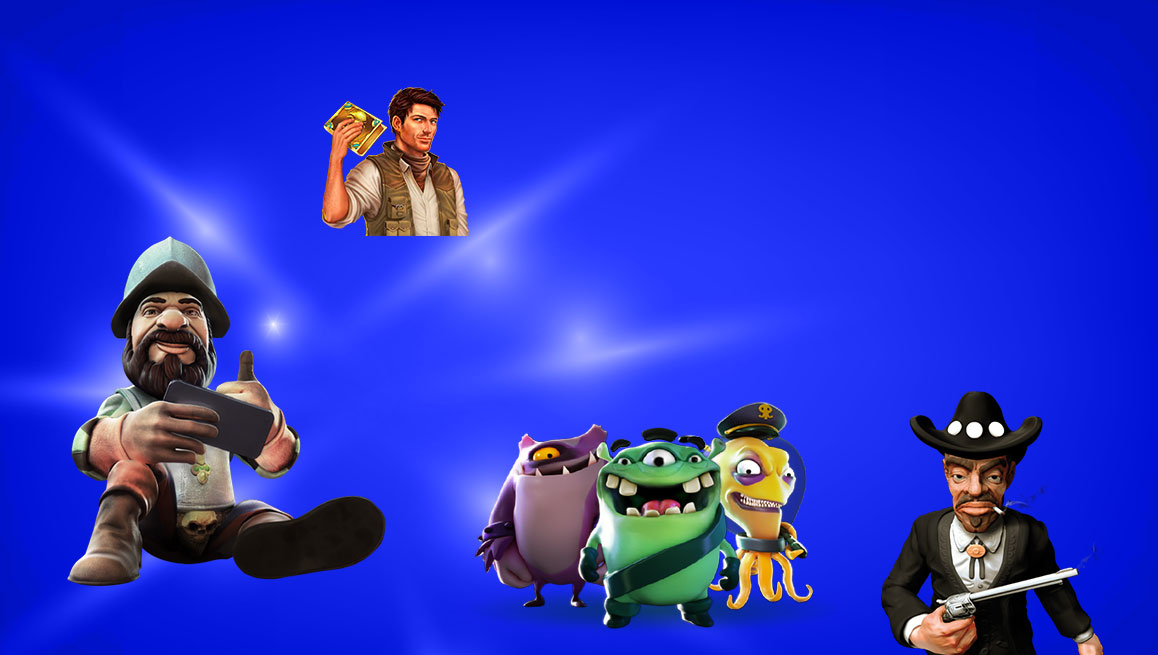
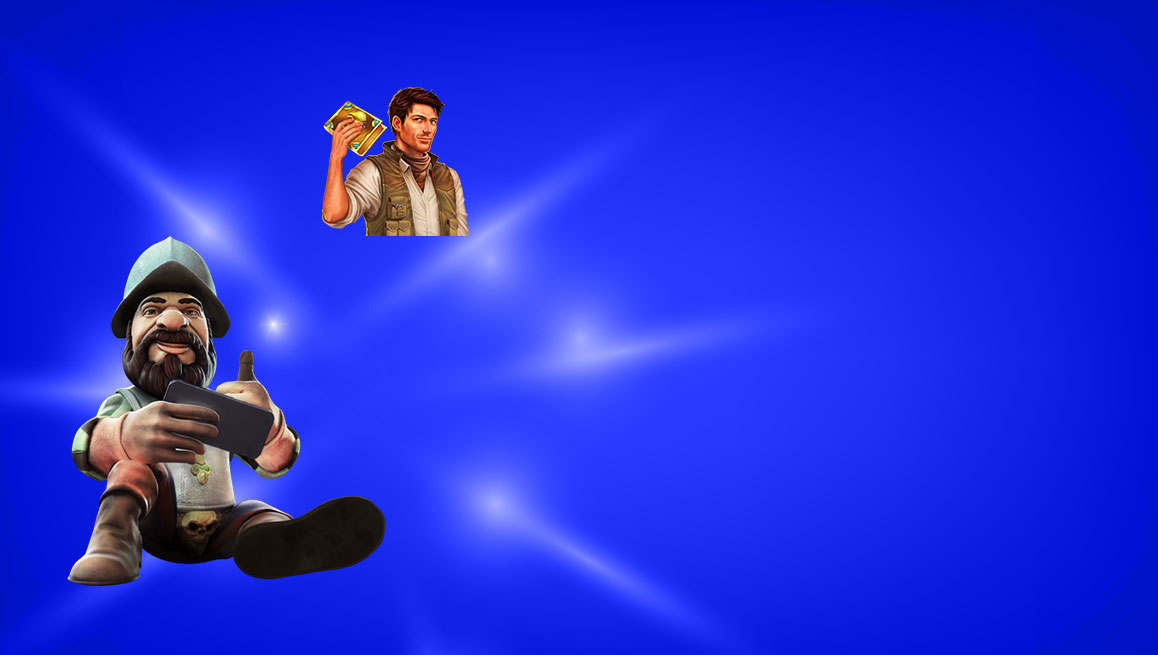
hmm

Changed region(s): [[0.4041, 0.6107, 0.715, 0.9771], [0.7461, 0.5802, 0.9637, 1.0]]

diff --git a/css/main.css b/css/main.css
@@ -93,15 +93,13 @@ img {
     height: 657px;
     background: url('../img/bg-desktop.jpg') no-repeat center center;
     background-size: cover;
-/*    -webkit-background-size: 100% 100%;
-    background-size: 100% 100%;*/
     background-color: #ccc;
     color: #fff;
     position: relative;
 }
 
 .main:before{
-	position: absolute;
+		position: absolute;
     content: " ";
     top: 75px;
     left: 0;
@@ -111,6 +109,26 @@ img {
     z-index: 1;
     background: url(../img/coins-desktop.png) no-repeat;
     background-size: 100% 100%;
+}
+.left__container:before{
+		position: absolute;
+		content: " ";
+		width: 34%;
+		height: 63%;
+		background: url(../img/Guys-desktop.png) no-repeat;
+		z-index: 0;
+    top: 60%;
+    left: 38%;
+}
+.right__container:before{
+		position: absolute;
+		content: " ";
+		width: 20%;
+		height: 68%;
+		background: url(../img/cowboy-desktop.png) no-repeat;
+		z-index: 0;
+    top: 59.5%;
+    left: 75%;
 }
 
 .main h1, .main h2, .main h3 {
@@ -160,6 +178,7 @@ img {
     flex-direction: row;
     padding: 0 70px;
     margin-top: 75px;
+    position: relative;
 }
 
 .main__inner > div {
@@ -168,11 +187,6 @@ img {
     align-items: center;
     flex-direction: column;
 }
-
-/*.main .left__container {
-    margin-left: 13%;
-    margin-right: 2%;
-}*/
 
 .left__container .guy-mobile{
 	display: none;
@@ -250,12 +264,11 @@ img {
     		content: " ";
     		top: 77%;
     		left: 53%;
-    		width: 30%;
+    		width: 42%;
     		height: 21%;
     		display: block;
     		z-index: 1;
     		background: url(../img/guys-tablet.png) no-repeat;
-    		background-size: 100% 100%;
     }
     .main h1{
         margin: 5px 0 20px;
@@ -311,6 +324,21 @@ img {
 
 		.arrow{top: 168px;left: 165px;}
     .arrow img{width: 166px;height: 180px;}
+
+    .left__container:before{
+				position: absolute;
+				content: " ";
+				width: 37%;
+				height: 100%;
+				background: url(../img/cowboy-tablet.png) no-repeat;
+				z-index: 0;
+				top: 42%;
+    		left: 63%;
+		}
+
+		.right__container:before{
+			display: none;
+		}
 }
 
 @media (min-width: 500px) and (max-width: 728px) {
@@ -323,13 +351,12 @@ img {
 				position: absolute;
     		content: " ";
     		top: 77%;
-    		left: 53%;
-    		width: 30%;
-    		height: 20%;
+    		left: 50%;
+    		width: 50%;
+    		height: 27%;
     		display: block;
     		z-index: 1;
     		background: url(../img/guys-tablet.png) no-repeat;
-    		background-size: 100% 100%;
 		}
 		.main .wheel {
    		 height: 350px;
@@ -399,6 +426,11 @@ img {
         max-width: 280px;
         font-size: 13px;
     }
+
+    .left__container:before{
+    		left: 58%;
+    		width: 41%;
+    }
 }
 
 @media (max-width: 500px) {
@@ -436,6 +468,9 @@ img {
     		top: 41%;
     		left: 46%;
 		}	
+		.left__container:before{
+				display: none;
+		}
 		.main h1{
 				margin: 41px 0 16px 0;
 		}	
@@ -537,4 +572,20 @@ img {
 
   .arrow{top: 85px;left: 90px;}
   .arrow img{width: 116px;height: 130px;}
+}
+
+@media (min-height: 900px){
+	.main {
+		height: 800px;
+	}
+
+	.right__container:before{
+		top: 79%;
+	}
+}
+
+@media (min-height: 1024px) , (min-height: 1366px){
+	.main{
+		height: 1266px;
+	}
 }
